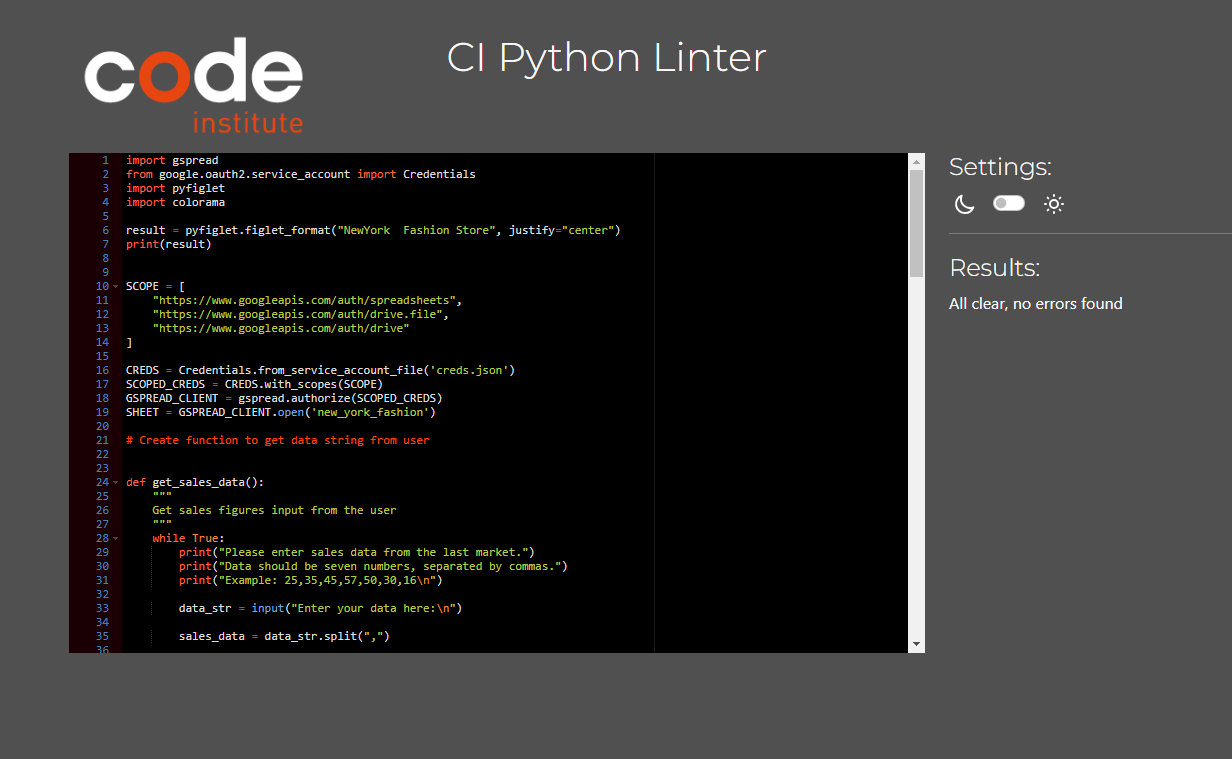
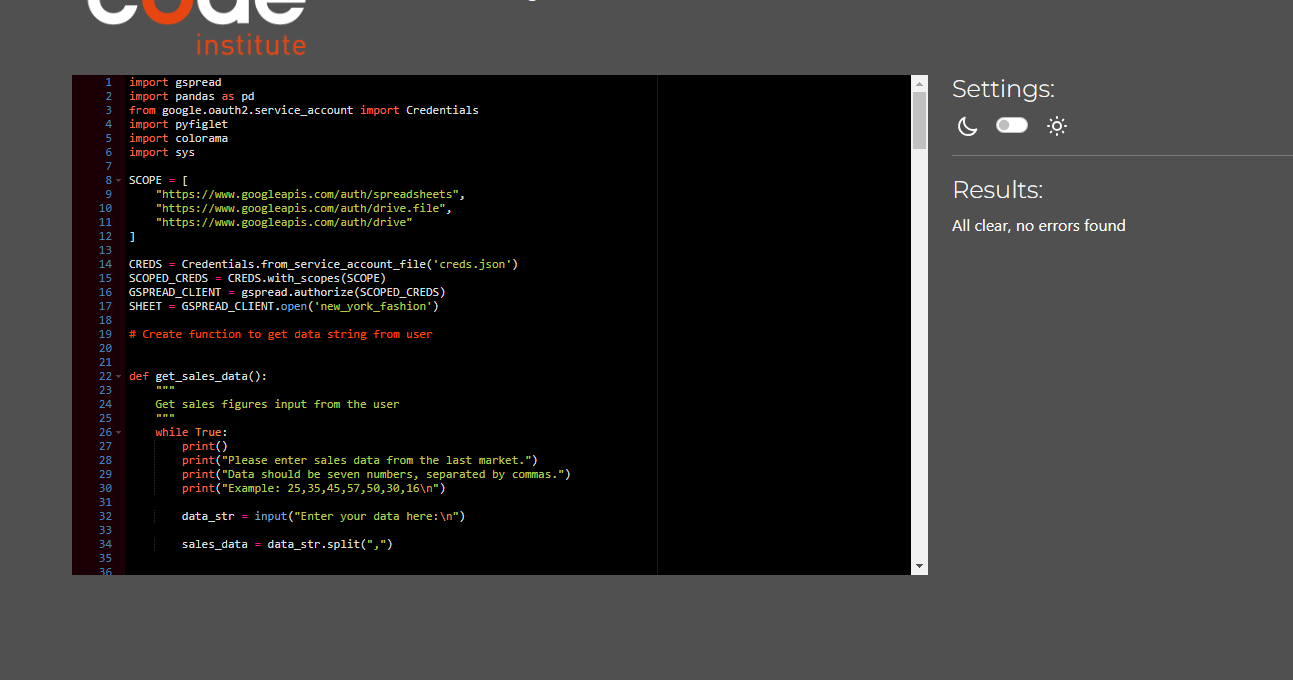
Add try/except around menu inputs

Changed region(s): [[0.0308, 0.0, 0.8945, 0.8647]]

diff --git a/run.py b/run.py
@@ -5,9 +5,6 @@ import pyfiglet
 import colorama
 import sys
 
-
-
-
 SCOPE = [
     "https://www.googleapis.com/auth/spreadsheets",
     "https://www.googleapis.com/auth/drive.file",
@@ -20,6 +17,7 @@ GSPREAD_CLIENT = gspread.authorize(SCOPED_CREDS)
 SHEET = GSPREAD_CLIENT.open('new_york_fashion')
 
 # Create function to get data string from user
+
 
 def get_sales_data():
     """
@@ -47,6 +45,8 @@ def get_sales_data():
     return sales_data
 
 # Function to handle the validation
+
+
 def validate_data(values):
     """
     Converts all string values into integers.
@@ -67,6 +67,8 @@ def validate_data(values):
     return True
 
 # Updating the worksheet
+
+
 def update_worksheet(data, worksheet):
     """
     Receives a list of integers to be inserted into worksheet
@@ -80,6 +82,8 @@ def update_worksheet(data, worksheet):
     print(colorama.Style.RESET_ALL)
 
 # Defining function to calculate warehouse data
+
+
 def calc_warehouse_data(sales_row):
     """
     Compare sales with store and calculate the warehouse for each item type.
@@ -142,7 +146,9 @@ def run_sales_data():
     store_data = calc_store_data(sales_columns)
     update_worksheet(store_data, "store")
 
-# Welcome message 
+# Welcome message
+
+
 def welcome_message():
     """
     Welcome message for the user
@@ -153,6 +159,7 @@ def welcome_message():
     print(colorama.Style.RESET_ALL)
 
 # Here its the menu for the app
+
 
 def main_menu():
     """
@@ -167,17 +174,18 @@ def main_menu():
     print("4. Exit the App")
     print("---------------")
 
-    selection = int(input("Chose an option: "))
-    
+    try:
+       selection = int(input("Chose an option: "))
+    except:
+       print(colorama.Fore.RED + "This is no valid option!")
+       print(colorama.Style.RESET_ALL)
+
     if selection == 1:
         instr()
-     
     elif selection == 2:
         view_data()
-      
     elif selection == 3:
         add_sales()
-    
     elif selection == 4:
         print("You choose to exit the app. Goodbye!")
         sys.exit()
@@ -186,7 +194,8 @@ def main_menu():
         print(colorama.Style.RESET_ALL)
         main_menu()
 
-#Instructions of the app so that the user know how to use it
+# Instructions of the app so that the user know how to use it
+
 
 def instr():
     """
@@ -194,11 +203,14 @@ def instr():
     """
     print("INSTRUCTIONS:")
     print()
-    print("From the main, if you want to view a data, you can input sales, warehouse or store")
-    print("and it will show the values for each area. To add sales data for the past 7 days,")
-    print("select 3 from the menu and put your sales figures in for each date, followed by a comma.\n")
+    print("From the main, if you want to view a data, you can input sales,")
+    print(" warehouse or store and it will show the values for each area.")
+    print(" To add sales data for the past 7 days, select 3 from the menu and")
+    print(" put your sales figures in for each date, followed by a comma.\n")
 
-#Function for user so that the user can see which sheet he wants
+# Function for user so that the user can see which sheet he wants
+
+
 def view_data():
     """
     Creating view_data function so that the user can see which sheet he wants
@@ -209,7 +221,13 @@ def view_data():
     print("3. Store Data")
     print("------------------")
 
-    selection = int(input("Chose an option: "))
+    try:
+       selection = int(input("Chose an option: "))
+    except:
+        print(colorama.Fore.RED + "This is no valid option!")
+        print(colorama.Style.RESET_ALL)
+        view_data()
+
     if selection == 1:
         worksheet = SHEET.worksheet('sales')
         data = pd.DataFrame(worksheet.get_all_records())
@@ -235,12 +253,14 @@ def view_data():
         main_menu()
 
     else:
-        print(colorama.Fore.RED +"Invalid choice. Enter 1-3\n")
+        print(colorama.Fore.RED + "Invalid choice. Enter 1-3\n")
         print(colorama.Style.RESET_ALL)
         view_data()
 
-#If user will choose option 3 will be able to add sales data       
-def add_sales():   
+# If user will choose option 3 will be able to add sales data
+
+
+def add_sales():
     """
     Calling functions so that the user could add sales data
     """
@@ -253,22 +273,21 @@ def main():
     """
     welcome_message()
     main_menu()
-  
-    #user input
+    # User input
     options = ("y", "n")
     while True:
         print("-------------------------------")
         print("Do you want to add sales data?")
-        print("Please answer with 'y' for yes and 'n' for no." )
+        print("Please answer with 'y' for yes and 'n' for no.")
         print("If you choose 'y' you will be able to add sales data.")
-        print("If you choose 'n' you will be able to see menu of the app again.")
+        print("If you choose 'n' you will be able to see menu of the again.")
         print("-------------------------------")
 
         user_input = input("Your answer: ")
         if user_input in options:
             break
         else:
-            print(colorama.Fore.RED +'Option not valid! Please answer with y/n')
+            print(colorama.Fore.RED + 'Option not valid!')
             print(colorama.Style.RESET_ALL)
 
     # If user will type 'y', the app will ask him to type the sales numbers
@@ -279,8 +298,6 @@ def main():
     elif user_input == "n":
         main_menu()
 
-main()        
+
+main()
 print("Have a nice day!\n")
-
-
-
